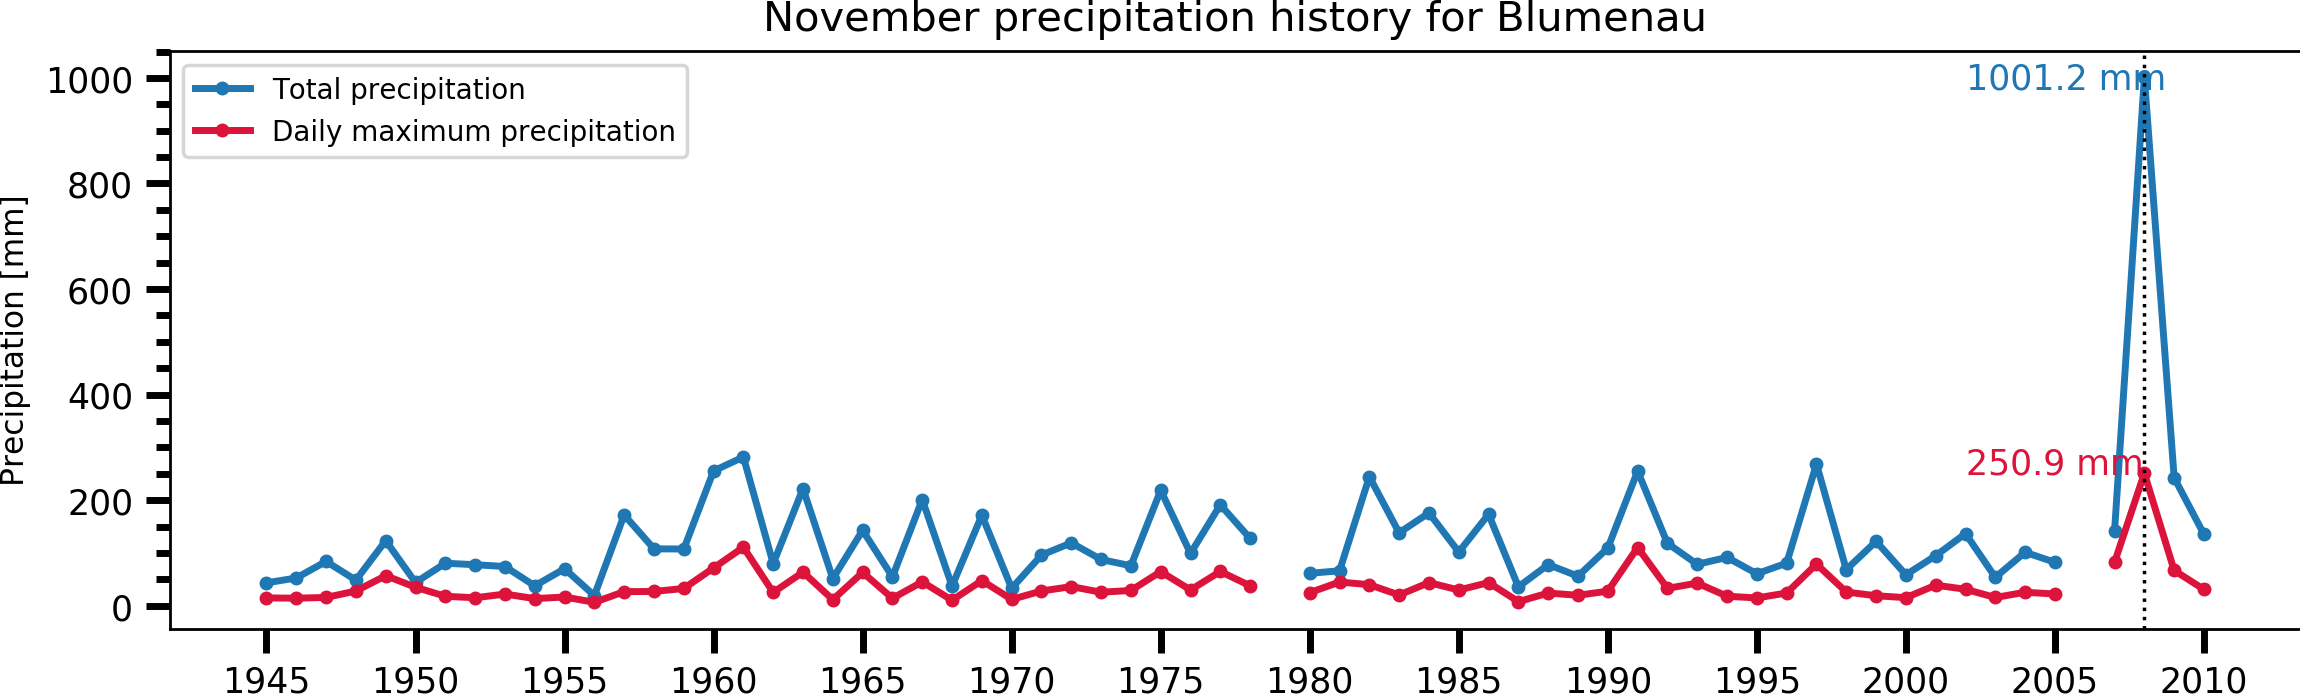
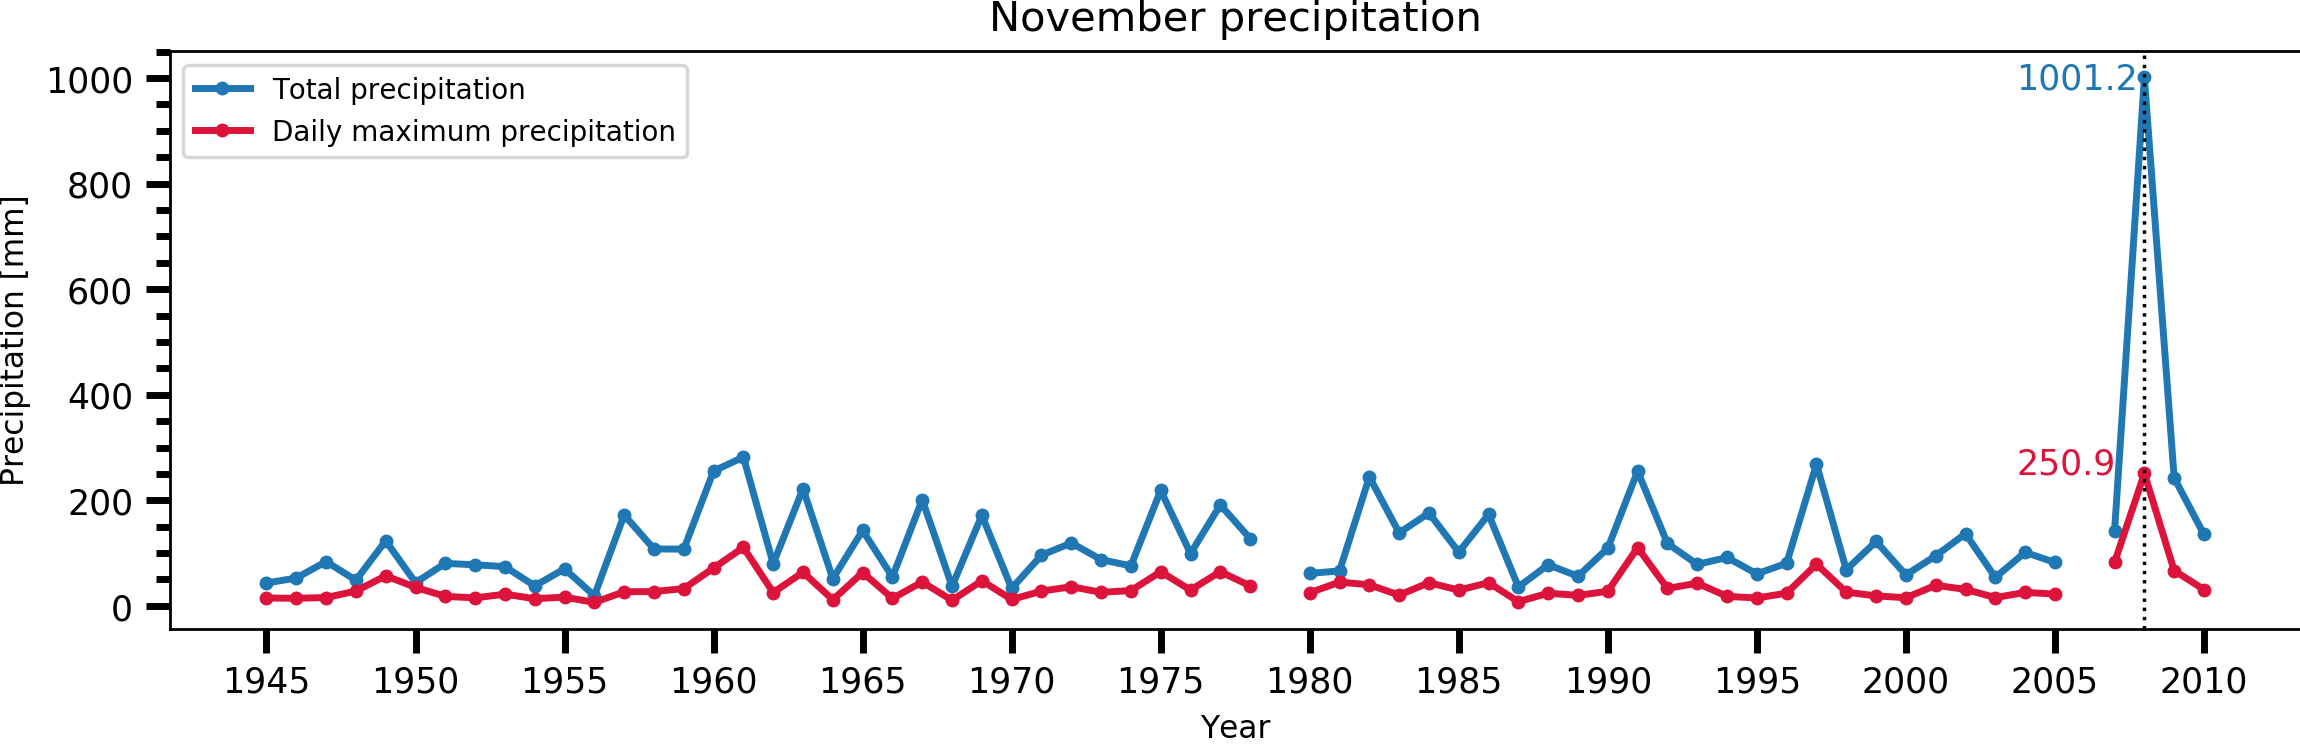
Blog update

Changed region(s): [[0.0309, 0.2103, 1.0, 0.9914], [0.0, 0.0, 1.0, 0.7511], [0.0617, 0.7511, 0.0926, 0.7811]]

diff --git a/graph-plotting-w-python-matplotlib.html b/graph-plotting-w-python-matplotlib.html
@@ -270,7 +270,10 @@ from matplotlib.ticker import AutoMinorLocator</code></pre>
 										</p>
 										<p>
 										<pre><code class="language-python">
-											file_name = pd.read_csv('blumenau.csv', keep_default_na=True,delimiter=',', header=None,names=['Year','Total', 'DayMax'])</code></pre>
+											file_name = pd.read_csv('blumenau.csv', 
+														keep_default_na=True,delimiter=',', 
+														header=None,
+														names=['Year','Total', 'DayMax'])</code></pre>
 										</p>
 
 										<p>
@@ -303,7 +306,7 @@ max_rain = max_rain.values
 											<pre><code class="language-python">fig, axs = plt.subplots(1, 1)</code></pre>
 										</p>
 
-										<p>Set the X and Y axis ticks according to the CSV file.</p>
+										<p>Using <b> numpy</b>, set the X and Y axis ticks according to the CSV file.</p>
 								
 										<p>
 											<pre><code class="language-python">x_major_ticks = np.arange(1945, 2011, 5)
@@ -319,7 +322,9 @@ y_major_ticks = np.arange(0, 1001, 200)
 										</p> 
 										<p>
 										<pre><code class="language-python">
-										axs.plot(year, max_rain, label='Total precipitation', linestyle='-', marker='.', linewidth=2, color='C0')      
+										axs.plot(year, max_rain,label='Total precipitation', 
+												linestyle='-', marker='.', linewidth=2, 
+												color='C0')      
 										</pre></code></p>
 
 										<p> For the second line, put the <b>year</b> variable as the first parameter and 
@@ -328,72 +333,155 @@ y_major_ticks = np.arange(0, 1001, 200)
 											<b>crimson</b> (Red).
 										</p> 
 										<p>
-										<pre><code class="language-python">axs.plot(year, total_rain, label='Daily maximum precipitation', linestyle='-', marker='.', linewidth=2, color='crimson')     
+										<pre><code class="language-python">
+											axs.plot(year, total_rain, 
+													label='Daily maximum precipitation', 
+													linestyle='-', marker='.', 
+													linewidth=2, color='crimson')     
 										</pre></code></p>
 
+										<p> Set the legend size and location.
+										</p> 
+										<p>
+										<pre><code class="language-python">axs.legend(loc='upper left',fontsize=8)     
+										</pre></code></p>
 
+										<p> Use the <b>set_minor_locator</b>, <b>tick_params</b> and 
+											to create nice axis ticks.
+										</p> 
+										<p>
+										<pre><code class="language-python">axs.yaxis.set_minor_locator(AutoMinorLocator())
+axs.tick_params(which='both',  width=2)
+axs.tick_params(which='major', length=7)
+axs.tick_params(which='minor', length=4)
+										</pre></code></p>										
+
+										<p> Import the ticks created earlier with <b>Numpy</b> into the plot.
+										</p> 
+										<p>
+										<pre><code class="language-python">axs.set_xticks(x_major_ticks)
+axs.set_yticks(y_major_ticks)
+										</pre></code></p>										
+
+										<p> Set axis labels.
+										</p> 
+										<p>
+										<pre><code class="language-python">axs.set_ylabel('Precipitation [mm]',fontsize=9)
+axs.set_xlabel('Year',fontsize=9)
+										</pre></code></p>										
+
+										<p> Set graph title.
+										</p> 
+										<p>
+										<pre><code class="language-python">axs.set_title('November precipitation history')
+										</pre></code></p>										
+
+										<p> You can also highlight a specific part of the graph. In our case, 2008 was a extreme rainy
+											year, so we gonna add a reference line in this year and write the amount of precipitation 
+											for both red and blue lines. 
+										</p> 
+										<p>
+										<pre><code class="language-python">
+											axs.axvline(2008, color='k', linestyle=':', 
+													    linewidth=1)
+											axs.text(2003.7,980,'1001.2',color='C0')
+											axs.text(2003.7,250,'250.9',color='crimson')
+										</pre></code></p>
+
+										<p> Now, save the figure.
+										</p> 
+										<p>
+										<pre><code class="language-python">fig.set_size_inches(11, 3)
+fig.savefig('xy_graph_csv.png',transparent=False, 
+			bbox_inches='tight', pad_inches=0, 
+			dpi=250)
+										</pre></code></p>											
+
+										<p> Here is our figure. Note that there is gaps in both lines. 
+											This is caused because we have NaNs in your data.
+										</p>
 										
+										<p><img src="images/blog/xy_graph_csv.png" width="100%" /></p>
 
 										<p>The complete script is:</p>
 
 										<p>
 										<pre><code class="language-python">
-"""
-Author:         Ueslei Adriano Sutil
-Created:        12 June 2020
-"""
 
-# Import libraries.
-import pandas as pd
-import numpy as np
-from matplotlib.ticker import AutoMinorLocator
-import matplotlib.pyplot as plt
-
-# Open CSV file and import variables.
-file_name = pd.read_csv('blumenau.csv', keep_default_na=True,delimiter=',', header=None,names=['Year','Total', 'DayMax'])
-
-# Import CSV data.
-year = file_name['Year']
-year = year.values
-total_rain = file_name['Total']
-total_rain = total_rain.values
-max_rain = file_name['DayMax']
-max_rain = max_rain.values
-
-# Create figures plots.
-fig, axs = plt.subplots(1, 1)
-
-# Set X and Y ticks.
-x_major_ticks  = np.arange(1945, 2011, 5)
-y_major_ticks  = np.arange(0, 1001, 200)
-
-# Plot the lines.
-axs.plot(year,max_rain,label='Total precipitation',linestyle='-',marker='.',linewidth=2,color='C0')      
-axs.plot(year,total_rain,label='Daily maximum precipitation',linestyle='-',marker='.',linewidth=2,color='crimson')
-
-# Insert legends.
-axs.legend(loc='upper left',fontsize=8)
-
-# Nice axis ticks.
-axs.yaxis.set_minor_locator(AutoMinorLocator())
-axs.tick_params(which='both',  width=2)
-axs.tick_params(which='major', length=7)
-axs.tick_params(which='minor', length=4)
-axs.set_xticks(x_major_ticks)
-axs.set_yticks(y_major_ticks)
-
-# Set axis labels.
-axs.set_ylabel('Precipitation [mm]',fontsize=9)
-axs.set_xlabel('Year',fontsize=9)
-
-axs.set_title('November precipitation history for Blumenau')
-axs.axvline(2008, color='k', linestyle=':', lw=1)
-axs.text(2002,980,'1001.2 mm',color='C0')
-axs.text(2002,250,'250.9 mm',color='crimson')
-
-# Save figure.
-fig.set_size_inches(11, 3)
-fig.savefig('xy_graph_csv.png',transparent=False, bbox_inches = 'tight', pad_inches=0, dpi=250)
+											"""
+											File name:      xy_graph_csv.py
+											Author:         Ueslei Adriano Sutil
+											Email:          uesleisutil1@gmail.com
+											Created:        12 June 2020
+											Last modified:  12 June 2020
+											"""
+											
+											# Import libraries.
+											import pandas as pd
+											import numpy as np
+											from matplotlib.ticker import AutoMinorLocator
+											import matplotlib.pyplot as plt
+											
+											# Open CSV file and import variables.
+											file_name = pd.read_csv('blumenau.csv', 
+														keep_default_na=True,delimiter=',', 
+														header=None,
+														names=['Year','Total', 'DayMax'])
+											
+											# Import CSV data.
+											year = file_name['Year']
+											year = year.values
+											total_rain = file_name['Total']
+											total_rain = total_rain.values
+											max_rain = file_name['DayMax']
+											max_rain = max_rain.values
+											
+											# Create figures plots.
+											fig, axs = plt.subplots(1, 1)
+											
+											# Set X and Y ticks.
+											x_major_ticks  = np.arange(1945, 2011, 5)
+											y_major_ticks  = np.arange(0, 1001, 200)
+											
+											# Plot the figures.
+											axs.plot(year, max_rain,label='Total precipitation',
+													linestyle='-', marker='.', linewidth=2,
+													color='C0')    
+											axs.plot(year, total_rain,
+													label='Daily maximum precipitation',
+													linestyle='-', marker='.',
+													linewidth=2, color='crimson')
+											
+											# Set legend.																			
+											axs.legend(loc='upper left',fontsize=8)   
+											
+											# Create nice axis.
+											axs.yaxis.set_minor_locator(AutoMinorLocator())
+											axs.tick_params(which='both',  width=2)
+											axs.tick_params(which='major', length=7)
+											axs.tick_params(which='minor', length=4)
+											
+											# Import ticks.
+											axs.set_xticks(x_major_ticks)
+											axs.set_yticks(y_major_ticks)
+											
+											# Set axis labels.
+											axs.set_ylabel('Precipitation [mm]',fontsize=9)
+											axs.set_xlabel('Year',fontsize=9)
+											
+											# Set title.
+											axs.set_title('November precipitation')
+											
+											# Highlight a specific part of the graph.
+											axs.axvline(2008, color='k', linestyle=':',
+												   linewidth=1)
+											axs.text(2003.7,980,'1001.2',color='C0')
+											axs.text(2003.7,250,'250.9',color='crimson')
+											
+											# Save figure.
+											fig.savefig('xy_graph_csv.png',transparent=False, 
+												   bbox_inches='tight', pad_inches=0, 
+													   dpi=250)
 												  </code></pre>
 											  </p>
 
